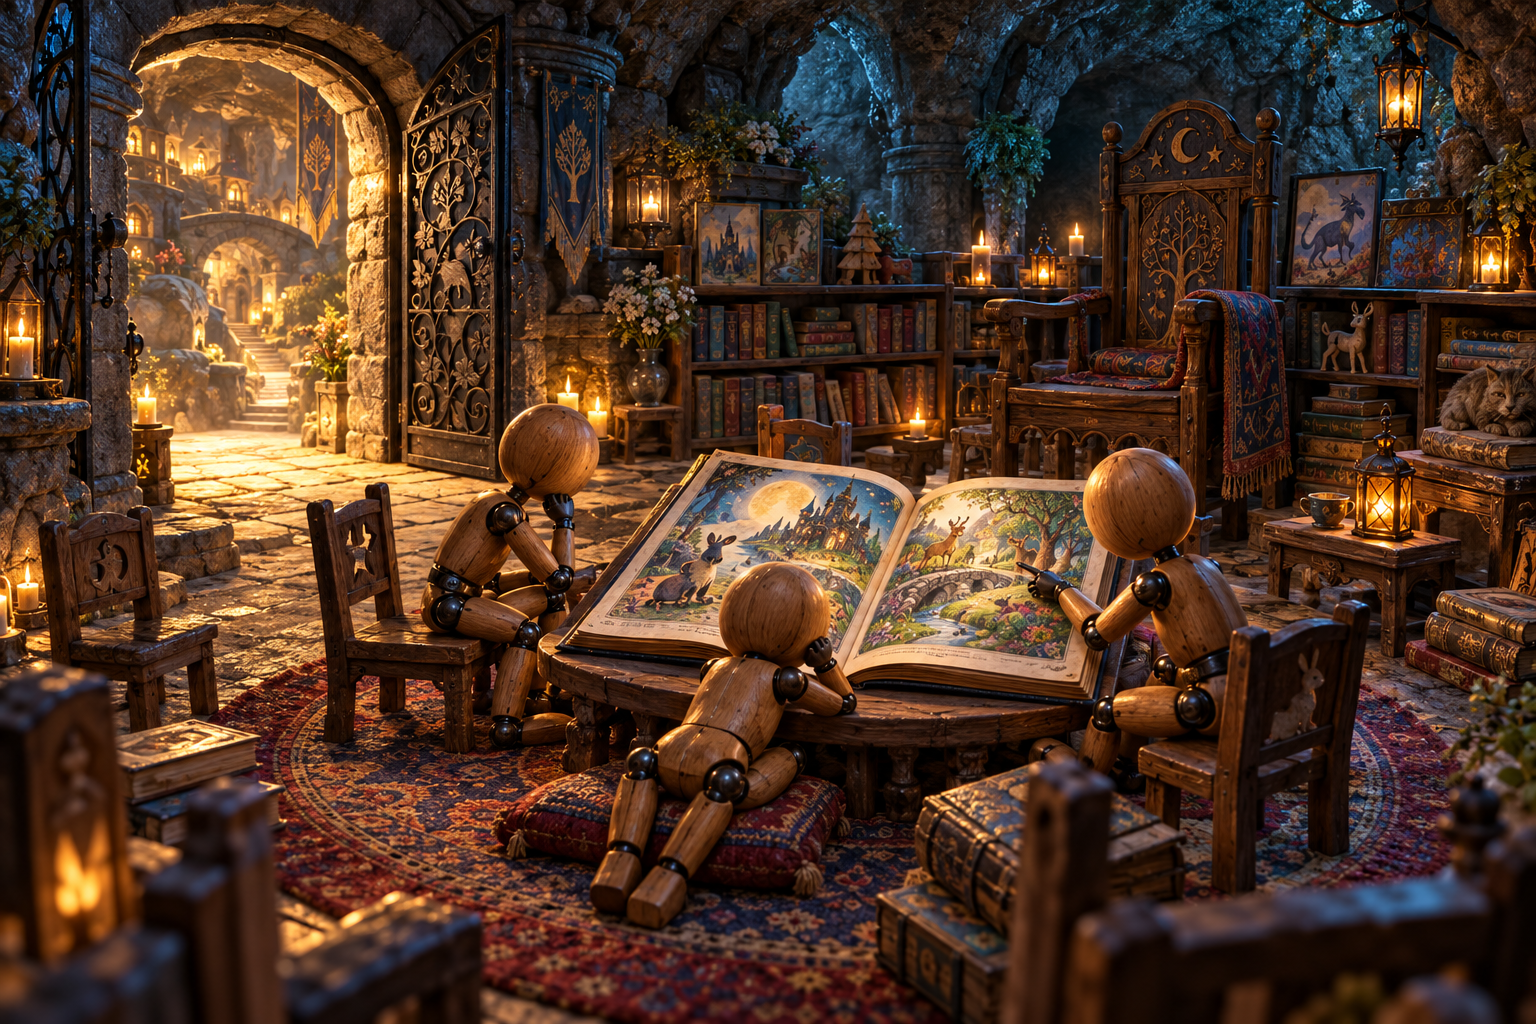
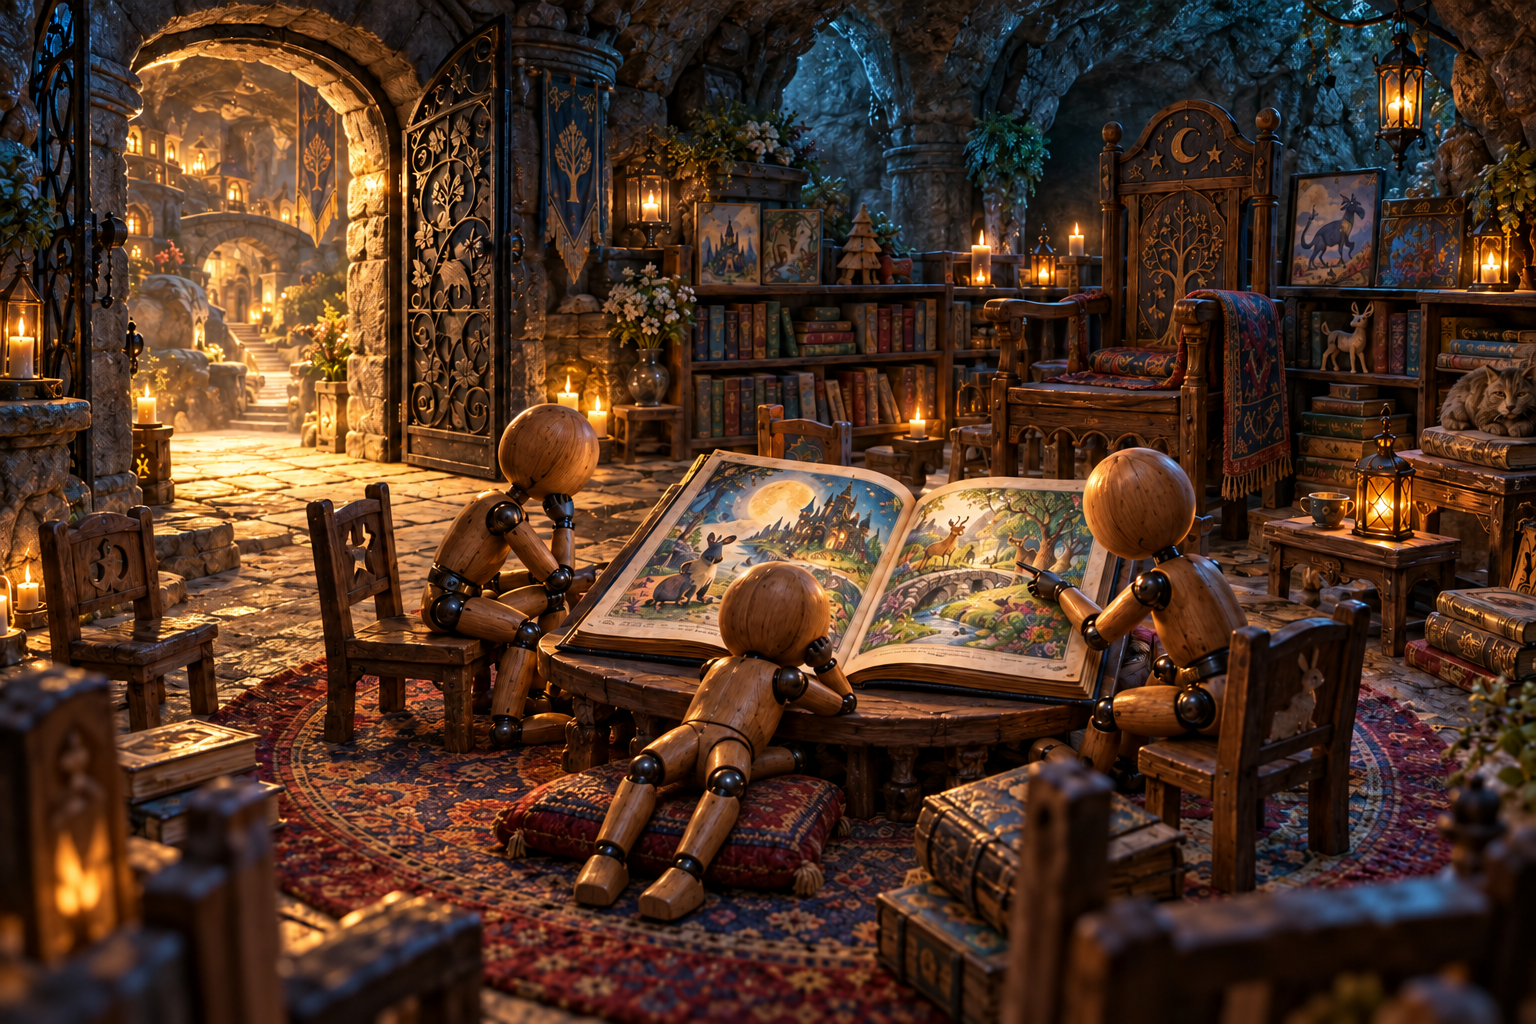
絵本の閲覧室の中央の人業の脚を修正

diff --git a/docs/art/codex-story-art-brief.md b/docs/art/codex-story-art-brief.md
@@ -525,6 +525,13 @@ Character reference sheet on a plain dark slate-blue background with soft even l
 ...except: replace ONLY the incorrect chalk hand-and-flame crest inside the town square circle with the approved geometric crest in docs/art/story-refs/sigil.png, supplied as the second reference. Use its exact silhouette: an angular cupped palm, ONE thumb projection on the LEFT, THREE parallel slanted finger projections on the RIGHT, a short wrist below, and ONE separate solid teardrop flame above. Do not add a fourth finger on the right. Do not use a symmetrical cup, a hollow flame, extra flames, or a realistic hand. Render the approved silhouette in warm off-white chalk on the cobblestones, matching the existing crest's scale and the perspective of the ground plane. Preserve the circular chalk border and every other part of the original image exactly, including all people, buildings, lanterns and lighting.
 ```
 
+**A-37. 絵本の閲覧室の脚の局所修正 lore_ws23** `art/story-review/dungeons/lore_ws23.png` (済)
+- 根拠と判定: 中央手前でクッションに座る小さな人業の脚のつながりが不自然だった。左右それぞれの太もも・膝・すね・足首・足が自然につながる座り姿へ修正。
+- 保つもの: 中央の人業の頭・上半身・読書のしぐさ、左右の人業、絵本、閲覧室の構図・画風・光。修正前は `art/story-review/fixes/lore_ws23-before.png` に保存。
+```text
+...except: correct ONLY the legs of the small wooden articulated doll seated on the cushion in the center foreground. Give it exactly two naturally connected legs, each with a short wooden thigh, a black-iron knee joint, a wooden shin, a distinct ankle joint and a wooden foot resting on the rug. Preserve its leaning upper body and reading gesture, the other dolls, the book, the room, composition, style and lighting.
+```
+
 ### B. 任意 (余力があれば。読者が気づきやすい順)
 
 | 場面 | 直すこと |
